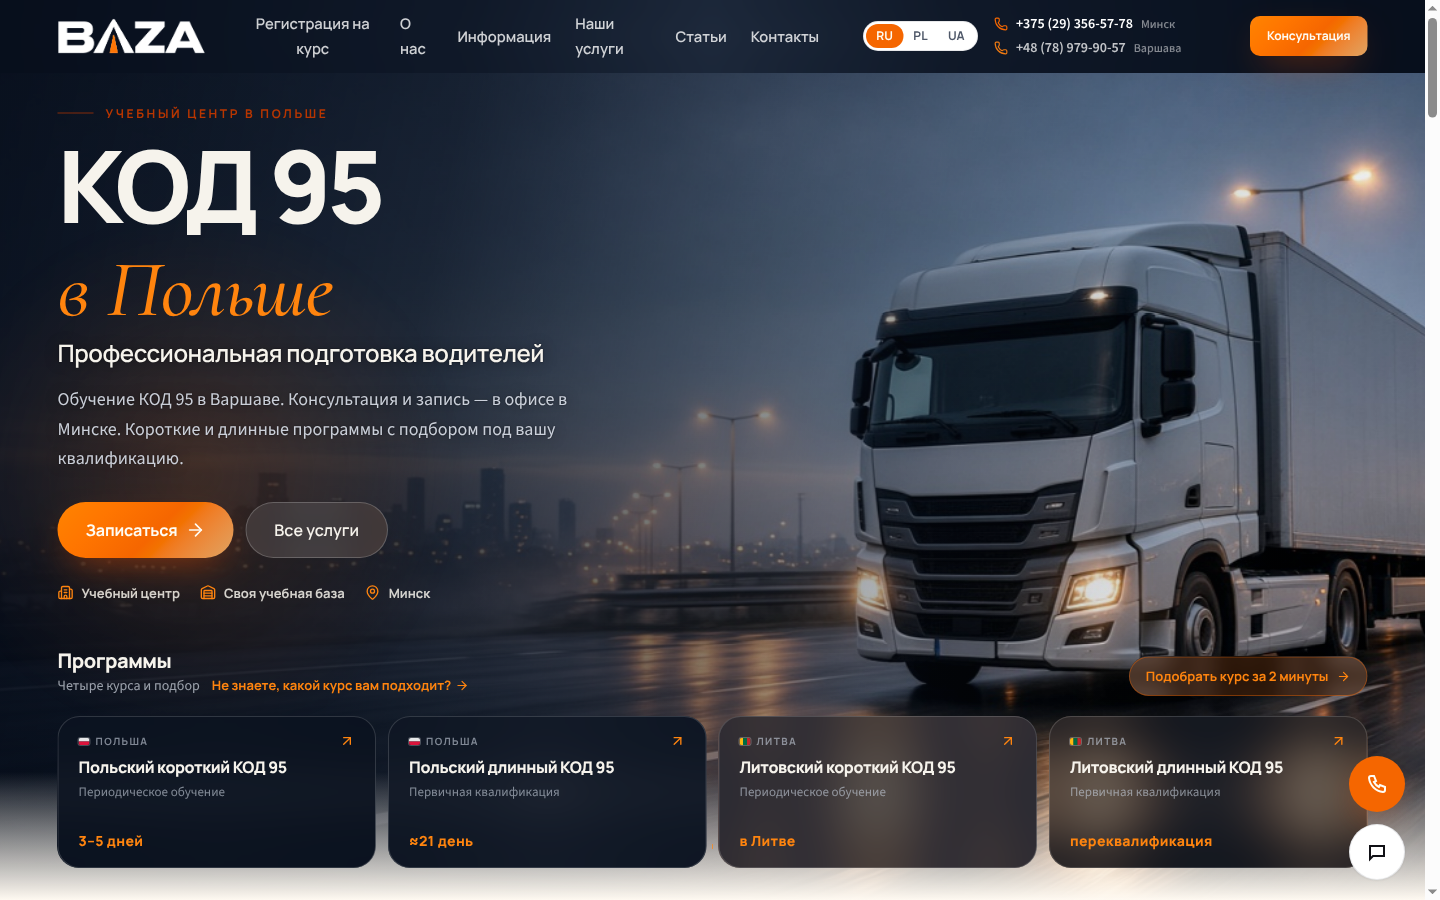
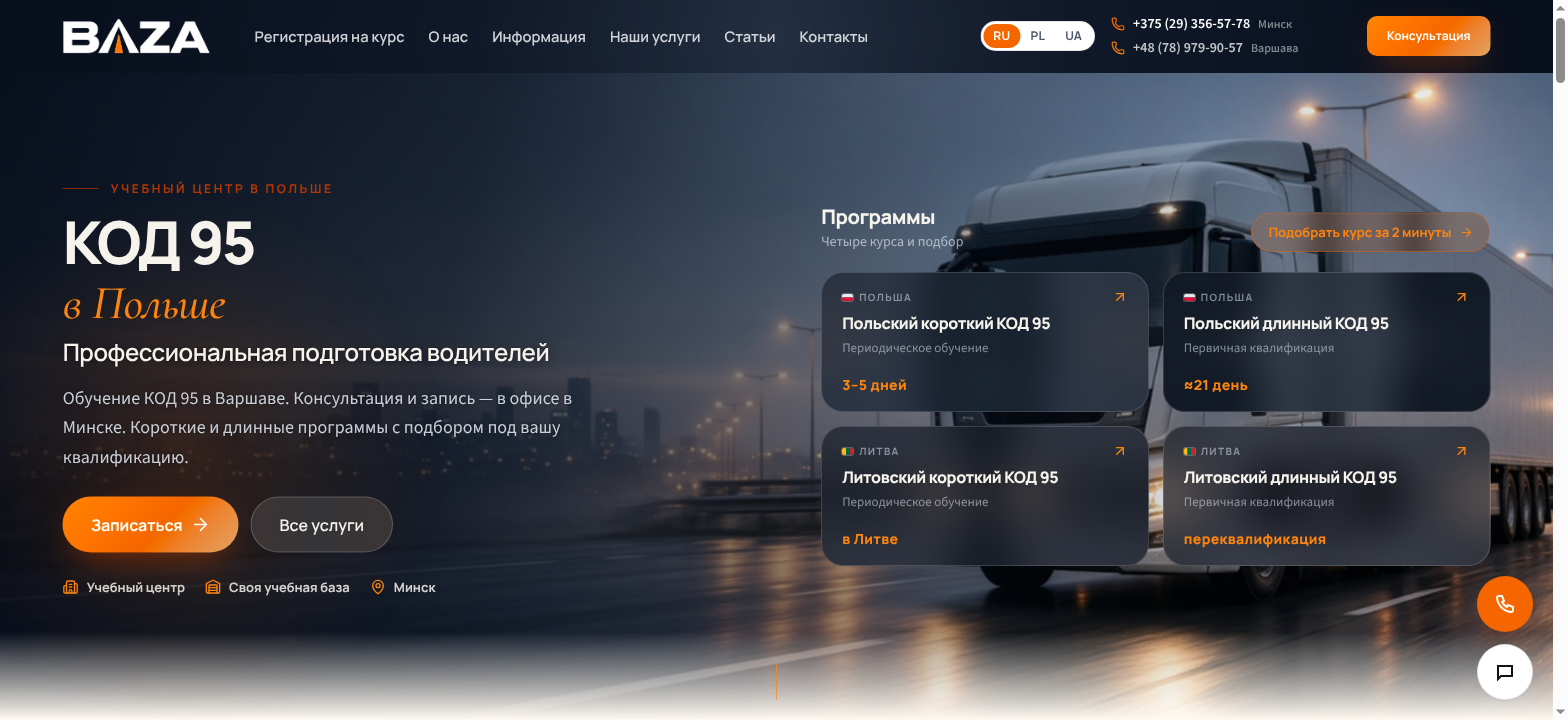
Fix header overflow at <=1440px, card hover lift, link All services to /uslugi

diff --git a/src/components/landing/SiteHeader.tsx b/src/components/landing/SiteHeader.tsx
@@ -11,7 +11,7 @@ import { LanguageMenu, LanguageSwitch } from "./LanguageSwitch";
 import { Logo } from "./Logo";
 
 const linkBase =
-  "relative px-3 py-2 font-display text-[0.92rem] font-semibold transition-colors after:absolute after:inset-x-3 after:bottom-0 after:h-px after:origin-left after:scale-x-0 after:bg-primary after:transition-transform after:duration-300 hover:after:scale-x-100";
+  "relative whitespace-nowrap px-2 py-2 font-display text-[0.875rem] font-semibold transition-colors after:absolute after:inset-x-2 after:bottom-0 after:h-px after:origin-left after:scale-x-0 after:bg-primary after:transition-transform after:duration-300 hover:after:scale-x-100 xl:px-3 xl:text-[0.92rem]";
 const linkLight = `${linkBase} text-foreground/80 hover:text-foreground`;
 const linkOnHero = `${linkBase} text-white/80 hover:text-white`;
 
@@ -41,7 +41,7 @@ export function SiteHeader() {
           : "border-border bg-white/90 shadow-card",
       )}
     >
-      <div className="container-page flex h-[4.5rem] items-center gap-8">
+      <div className="container-page flex h-[4.5rem] items-center gap-4 xl:gap-8">
         <Logo onDark={onHero} />
 
         <nav aria-label={m.header.nav} className="hidden items-center lg:flex">
@@ -73,8 +73,9 @@ export function SiteHeader() {
         </nav>
 
         <div className="ml-auto hidden items-center gap-4 lg:flex">
+          {/* телефоны — только когда ширины хватает, иначе шапка переполняется */}
           <LanguageSwitch />
-          <div className="hidden min-w-[13.5rem] flex-col items-start gap-1 xl:flex">
+          <div className="hidden min-w-[13.5rem] flex-col items-start gap-1 2xl:flex">
             <a
               href={PHONE_BY.href}
               className={cn(

diff --git a/src/components/landing/Hero.tsx b/src/components/landing/Hero.tsx
@@ -83,7 +83,7 @@ export function Hero() {
                 size="xl"
                 className="border border-white/20 bg-white/10 text-hero-foreground backdrop-blur-md hover:bg-white/20 hover:text-white max-sm:w-full max-sm:justify-center"
               >
-                <Link to="/o-nas">{m.hero.services}</Link>
+                <Link to="/uslugi">{m.hero.services}</Link>
               </Button>
             </div>
             <ul className="mt-5 flex flex-wrap gap-x-5 gap-y-2 lg:mt-6">
